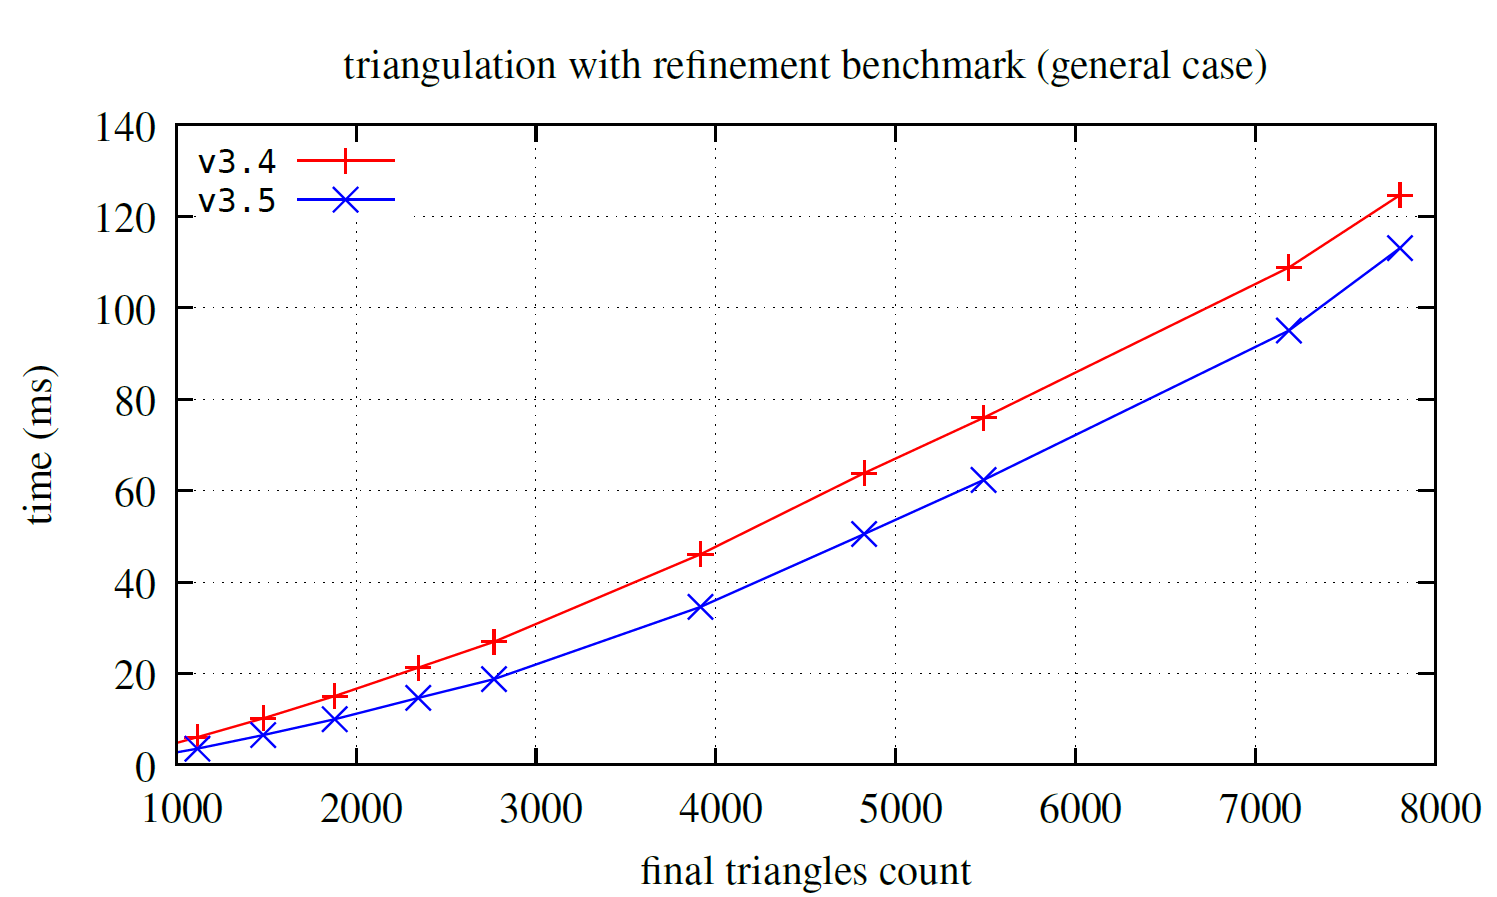
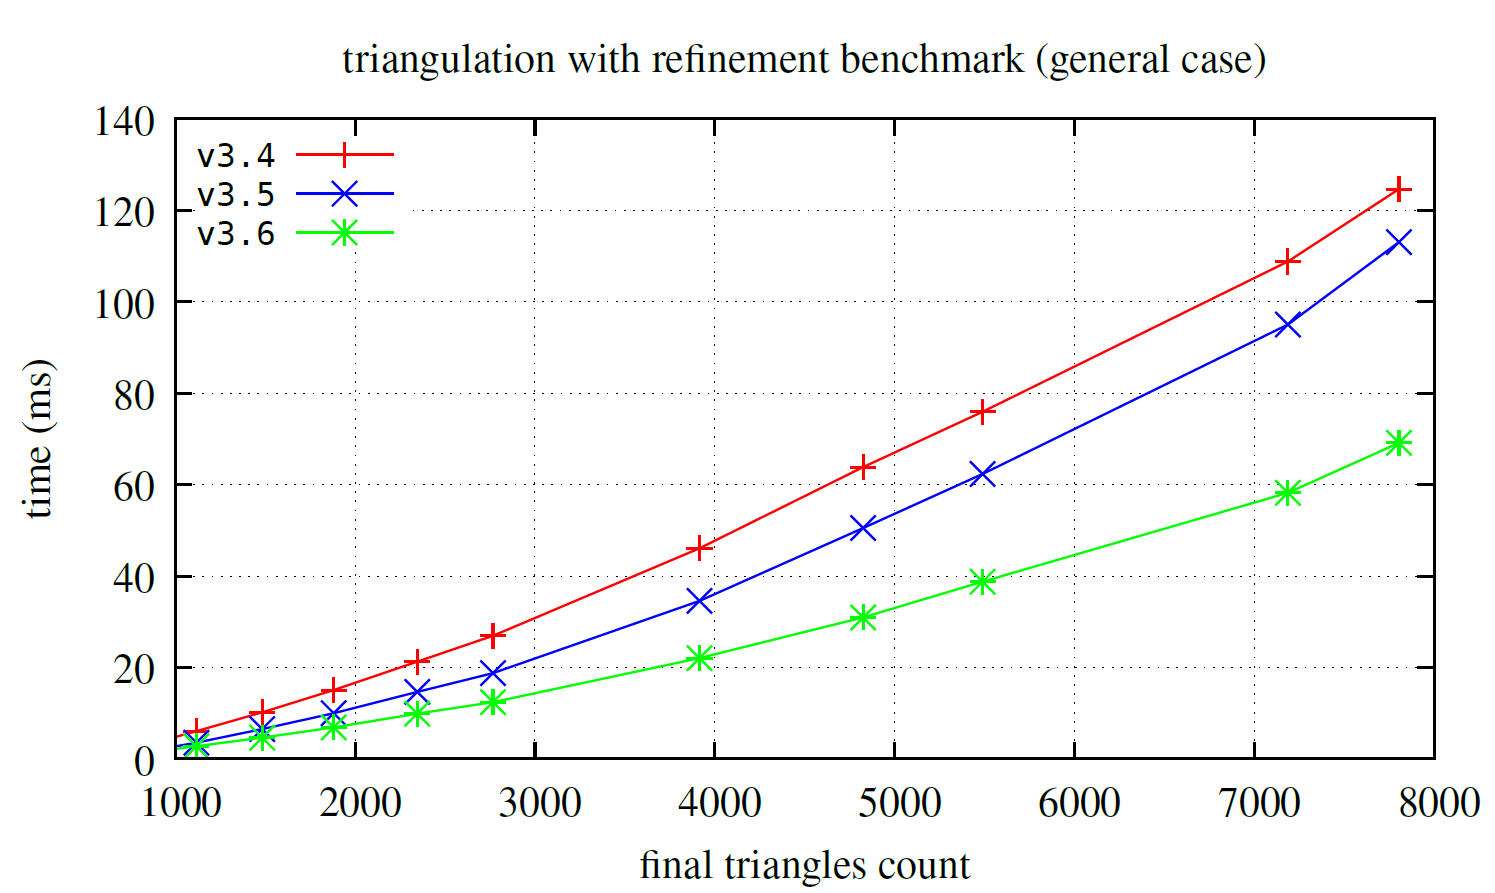
docs: update refinement benchmark

diff --git a/Documentation~/manual/benchmark.md b/Documentation~/manual/benchmark.md
@@ -35,7 +35,7 @@ The presented result is for `T2 = float2`.
 
 ## Delaunay triangulation with mesh refinement
 
-Furthermore, we present a performance comparison (with Burst enabled) between `v1.0..v3.5` for the refinement task.
+Furthermore, we present a performance comparison (with Burst enabled) between `v1.0..v3.6` for the refinement task.
 The presented result is for `T2 = float2`.
 This test case executes triangulation for a unit square box.
 
